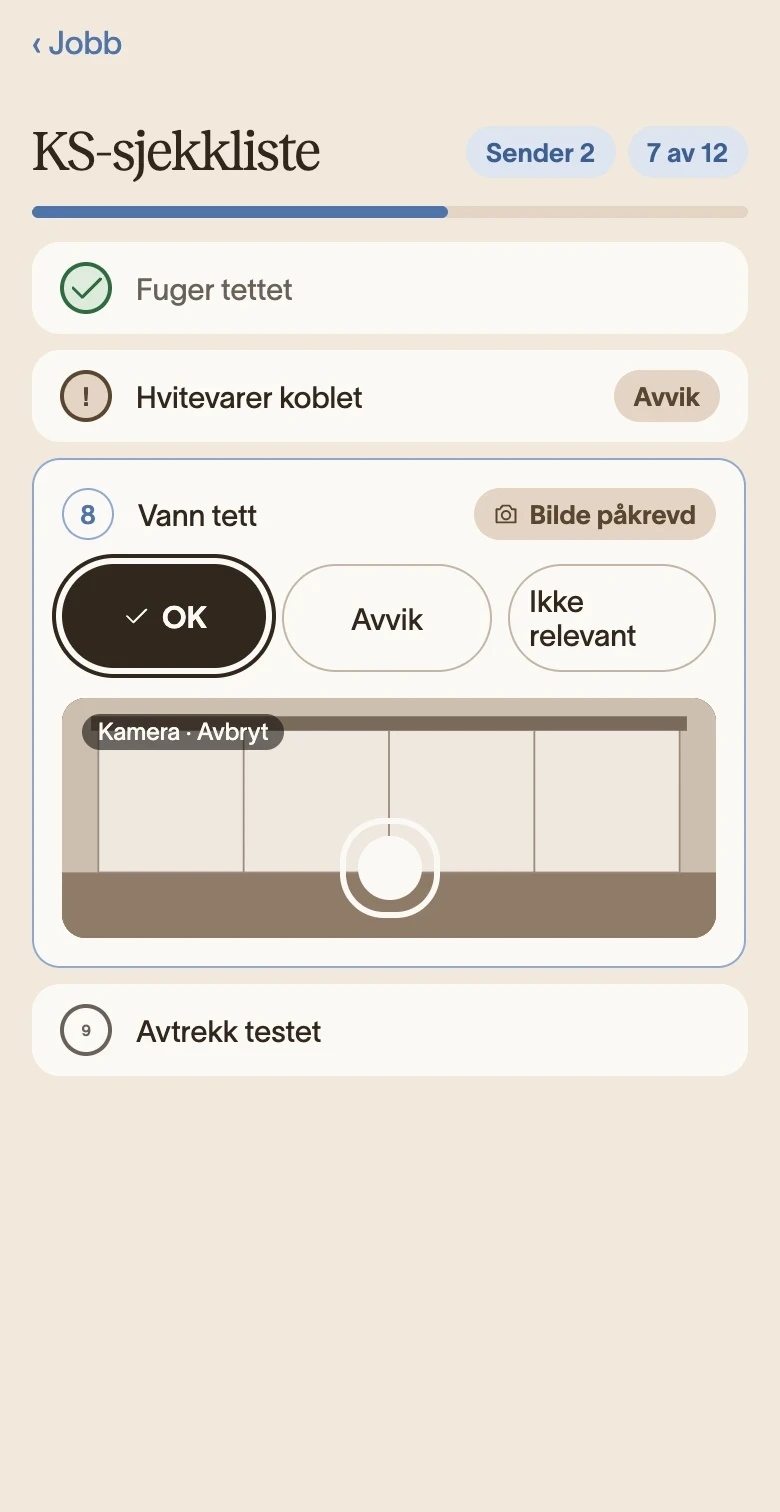
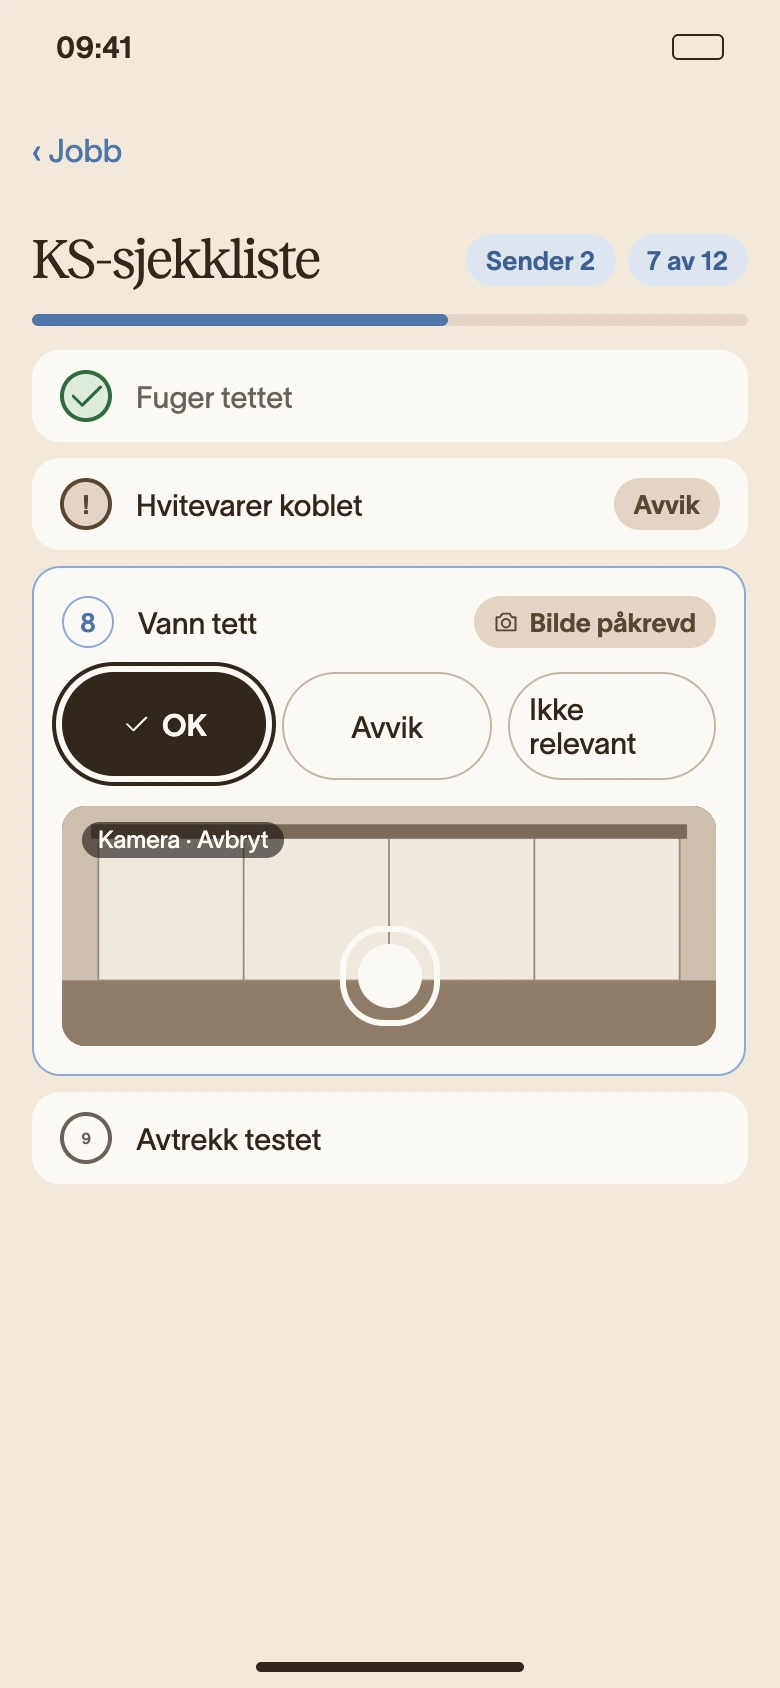
vis: nye skjermbilder fra crm-sju-vis.zip og ute-vis.zip i rommene
CRM (1440 bred, 2×, ny Hengsel-logo, ingen merkenavn): crm-min-dag, crm-bestilling, crm-montasje,
crm-etterkalkyle, crm-salgstavla, crm-saker, crm-resultater og crm-min-dag-800 (Min dag i iPad,
den tegnede kanten på 24 px er beskåret bort). Hengsel Ute: ute-i-dag, ute-jobb-under, ute-laser, ute-ks,
ute-ks-kamera, ute-avvik, ute-punkter, ute-punktkort, ute-ferdig, ute-typeskilt (390 × 844) og
ute-ipad-bildeverktoy (1180 × 820), nå med egen statuslinje og hjemindikator.

Rom: Prøv CRM (PC min-dag → bestilling → tilbud-liste → tilbud-kunde → montasje, iPad min-dag-800,
tilbud og ordre), Firmaleder (PC resultater, salgstavla, montasje, saker, moduler), Ordrens reise
(scene 7 montasje, 8 etterkalkyle, alle på PC), romkortene Prøv CRM og Firmaleder, og «Slik henger det sammen».
Montørappen og Tegningen bruker de nye ute-bildene uten rammens egen statuslinje og hjemindikator
(.tlf.hel gir plass til hele 390 × 844-skjermen). README-kartet oppdatert.

Claude-Session: https://claude.ai/code/session_01XUX8fkzkTEqWReZM1iEFk5

diff --git a/sites/vis/src/side.js b/sites/vis/src/side.js
@@ -10,7 +10,7 @@ var R=[
 // Rom uten CRM_v4-fil bruker bilde av rommet selv (src/img/rom-*.webp, lages av scripts/skjermbilder-vis.mjs).
 var C=[
  {u:'/reise/',b:'/skjermbilder/crm-tilbud-kunde.webp',t:'Ordrens reise',type:'Simulering',p:'Én kjøkkenordre fra tegning i CET til montert kjøkken og faktura, i åtte scener med fem leverandører.',r:['selger','montor','leverandor','sigdal'],go:'Spill av'},
- {u:'/crm/',b:'/skjermbilder/crm-tilbud-liste.webp',t:'Prøv CRM selv',type:'Prøv selv',p:'En dag som selger: Min dag, avvik fra leverandører, tilbud fra CET, ordre og montasjeplan.',r:['selger','sigdal'],go:'Prøv CRM'},
+ {u:'/crm/',b:'/skjermbilder/crm-min-dag.webp',t:'Prøv CRM selv',type:'Prøv selv',p:'En dag som selger: Min dag, avvik fra leverandører, tilbud fra CET, ordre og montasjeplan.',r:['selger','sigdal'],go:'Prøv CRM'},
  {u:'/kunde/',b:'/skjermbilder/portal-tlf-nytt-kjokken.webp',tlf:1,t:'Kundens reise',type:'Simulering',p:'Det kunden opplever i Min side og på SMS, fra tilbud og BankID til FDV og reklamasjon.',r:['selger'],go:'Spill av'},
  {u:'/opplaering/',b:'/img/rom-opplaering.webp',t:'Opplæring for selgere',type:'Opplæring',p:'Ti korte deler fra kunde og tilbud til bestilling, frister og montasje.',r:['selger'],go:'Start'},
  {u:'/montor/',b:'/skjermbilder/ute-i-dag.webp',tlf:1,t:'Montørappen Hengsel',type:'Prøv selv',p:'En monteringsdag: neste jobb, KS, avvik med bilde og ferdigmelding med signatur.',r:['montor','selger'],go:'Prøv appen'},
@@ -22,7 +22,7 @@ var C=[
  {u:'/hvitevarer/',b:'/img/rom-hvitevarer.webp',t:'Hvitevarer via Tradeplace',type:'Prøv selv',p:'Bestill hvitevarer fra flere merker rett fra ordren, med pris og lager live og sjekk mot tegning og montasjeuke.',r:['selger','leverandor'],go:'Prøv bestillingen'},
  {u:'/tegning/',b:'/skjermbilder/ute-laser.webp',tlf:1,t:'Tegningen i Hengsel',type:'Prøv selv',p:'Montøren jobber rett i romtegningen: trykker på et skap, ser mål og varer, og melder ferdig eller avvik.',r:['montor','selger'],go:'Prøv tegningen'},
  {u:'/gevinst/',b:'/img/rom-gevinst.webp',t:'Gevinstkalkulator',type:'Prøv selv',p:'Legg inn butikkens egne tall og se hvor mye tid og penger løsningen sparer i året.',r:['sigdal','selger'],go:'Regn på det'},
- {u:'/firmaleder/',b:'/skjermbilder/crm-leder-oversikt.webp',t:'Firmaleder i Hengsel',type:'Prøv selv',p:'Ny forespørsel med 48 timers svarfrist, aksepter eller avvis, velg montør og se teamets uke.',r:['montor'],go:'Prøv appen'},
+ {u:'/firmaleder/',b:'/skjermbilder/crm-resultater.webp',t:'Firmaleder i Hengsel',type:'Prøv selv',p:'Ny forespørsel med 48 timers svarfrist, aksepter eller avvis, velg montør og se teamets uke.',r:['montor'],go:'Prøv appen'},
  {u:'/leverandor/',b:'/img/rom-leverandor.webp',t:'Leverandørløsningen',type:'Presentasjon',p:'De tolv strømmene, tre nivåer, krav, frister og plan. Med kravene til Sigdal (S-55).',r:['leverandor','sigdal'],go:'Se presentasjonen'},
  {u:'/leder/',b:'/img/rom-leder.webp',t:'Daglig leder',type:'Oversikt',p:'Ordrereserve per uke, tilbud ute, treffprosent, margin og det som står i fare, per butikk og selger.',r:['selger','sigdal'],go:'Åpne oversikten'},
  {u:'/veikart/',b:'/img/rom-veikart.webp',t:'Veikart og status',type:'Oversikt',p:'Hva som er i drift i dag, hva som kommer kvartal for kvartal, og hva vi venter på fra andre.',r:['selger','leverandor','sigdal'],go:'Se veikartet'},

diff --git a/sites/vis/src/crm/index.html b/sites/vis/src/crm/index.html
@@ -49,10 +49,10 @@
     <div class="tabs" id="enhet" role="group" aria-label="Enhet"><button type="button" data-e="pc" class="on" aria-pressed="true">PC</button><button type="button" data-e="ipad" aria-pressed="false">iPad</button><button type="button" data-e="tlf" aria-pressed="false">Telefon</button></div>
   </div>
   <div class="enhet" data-enhet="pc">
-    <div class="pc-ramme" id="pc" data-bilder="crm-tilbud-liste,crm-tilbud-kunde,crm-ordre-kontrollmal,crm-mal-skisser" data-alt="Hengsel CRM på PC"><div class="skjermkant"><div class="skjerm"></div></div><span class="stang" aria-hidden="true"></span><span class="fot" aria-hidden="true"></span></div>
+    <div class="pc-ramme" id="pc" data-bilder="crm-min-dag,crm-bestilling,crm-tilbud-liste,crm-tilbud-kunde,crm-montasje" data-alt="Hengsel CRM på PC"><div class="skjermkant"><div class="skjerm"></div></div><span class="stang" aria-hidden="true"></span><span class="fot" aria-hidden="true"></span></div>
   </div>
   <div class="enhet" data-enhet="ipad" hidden>
-    <div class="ipad-ramme" id="ipad" data-bilder="crm-ipad-tilbud" data-alt="Hengsel CRM på iPad: tilbud"><div class="skjerm"></div></div>
+    <div class="ipad-ramme" id="ipad" data-bilder="crm-min-dag-800,crm-ipad-tilbud,crm-ipad-ordre" data-alt="Hengsel CRM på iPad"><div class="skjerm"></div></div>
   </div>
   <div class="enhet" data-enhet="tlf" hidden>
     <div class="tlf" id="tlf" data-bilder="crm-tlf-ordre" data-alt="Hengsel CRM på telefon: ordre"><div class="skjerm"></div><span class="hjem" aria-hidden="true"></span></div>

diff --git a/sites/vis/src/reise/index.html b/sites/vis/src/reise/index.html
@@ -127,9 +127,7 @@
   <main class="stage" id="stage">
     <section class="card pane" aria-label="Det selgeren ser">
       <div class="pane-h"><h2 class="eyebrow">Selgeren ser</h2><span id="where"></span></div>
-      <div class="enhet" data-enhet="pc"><div class="pc-ramme" id="pc" data-bilder="crm-tilbud-liste,crm-tilbud-kunde,crm-ordre-kontrollmal" data-ingen-nav data-alt="Hengsel CRM på PC"><div class="skjermkant"><div class="skjerm"></div></div><span class="stang" aria-hidden="true"></span><span class="fot" aria-hidden="true"></span></div></div>
-      <div class="enhet" data-enhet="ipad" hidden><div class="ipad-ramme" id="ipad" data-bilder="crm-ipad-ordre" data-alt="Hengsel CRM på iPad: ordre"><div class="skjerm"></div></div></div>
-      <div class="enhet" data-enhet="tlf" hidden><div class="tlf" id="tlf" data-bilder="portal-tlf-levering,portal-tlf-montering" data-ingen-nav data-alt="Min side på mobil"><div class="skjerm"></div><span class="hjem" aria-hidden="true"></span></div></div>
+      <div class="enhet" data-enhet="pc"><div class="pc-ramme" id="pc" data-bilder="crm-tilbud-liste,crm-tilbud-kunde,crm-ordre-kontrollmal,crm-montasje,crm-etterkalkyle" data-ingen-nav data-alt="Hengsel CRM på PC"><div class="skjermkant"><div class="skjerm"></div></div><span class="stang" aria-hidden="true"></span><span class="fot" aria-hidden="true"></span></div></div>
       <div class="order" hidden>
         <div class="order-h"><b id="ohT"></b><small id="ohS"></small></div>
         <div class="rows" id="rows"></div>

diff --git a/sites/vis/src/tegning/index.html b/sites/vis/src/tegning/index.html
@@ -60,10 +60,10 @@
     <div class="scene">
       <div class="tabs" id="enhet" role="group" aria-label="Enhet"><button type="button" data-e="tlf" class="on" aria-pressed="true">Telefon</button><button type="button" data-e="ipad" aria-pressed="false">iPad</button><button type="button" data-e="pc" aria-pressed="false">PC</button></div>
       <div class="enhet" data-enhet="tlf">
-        <div class="tlf" id="tlf" data-bilder="ute-laser" data-sb="09.41" data-alt="Hengsel Ute på telefon: lasermåling i tegningen"><div class="skjerm"></div><span class="hjem" aria-hidden="true"></span></div>
+        <div class="tlf hel" id="tlf" data-bilder="ute-laser" data-alt="Hengsel Ute på telefon: lasermåling i tegningen"><div class="skjerm"></div></div>
       </div>
       <div class="enhet" data-enhet="ipad" hidden>
-        <div class="ipad-ramme" id="ipad" data-bilder="ute-ipad-bildeverktoy" data-sb="09.41 · tor. 8. okt." data-alt="Hengsel Ute på iPad: bildeverktøyet med punkter"><div class="skjerm"></div></div>
+        <div class="ipad-ramme" id="ipad" data-bilder="ute-ipad-bildeverktoy" data-alt="Hengsel Ute på iPad: bildeverktøyet med punkter"><div class="skjerm"></div></div>
       </div>
       <div class="enhet" data-enhet="pc" hidden>
         <div class="pc-ramme" id="pc" data-bilder="crm-mal-skisser" data-alt="Hengsel CRM på PC: mål og skisser"><div class="skjermkant"><div class="skjerm"></div></div><span class="stang" aria-hidden="true"></span><span class="fot" aria-hidden="true"></span></div>

diff --git a/sites/vis/src/reise/side.js b/sites/vis/src/reise/side.js
@@ -3,9 +3,9 @@
   var reduce=window.matchMedia&&window.matchMedia('(prefers-reduced-motion: reduce)').matches;
   var rowsEl=$('rows'),flow=$('flow'),svg=$('lines'),crm=$('crm');
   var cur=1,playing=false,timers=[],anims=[],nodes=[],autoT=null;
-  /* Skjermbilde per scene (CRM_v4): tegning → tilbudslista, tilbud/signering → tilbud og kunde på PC, bestilling/bekreftelse/endring →
-     ordre og kontrollmål på PC, levering og montasje → kundens Min side på telefon, faktura → belastninger på iPad */
-  var V=Skjermbilder.alle(),BILDE=[['pc',0],['pc',1],['pc',1],['pc',2],['pc',2],['pc',2],['tlf',1],['ipad',0]];
+  /* Skjermbilde per scene (CRM_v4, alle på PC): tegning → tilbudslista, tilbud/signering → tilbud og kunde, bestilling/bekreftelse/endring →
+     ordre og kontrollmål, levering og montasje → Mer › Montasje › Kontrollmål, faktura → etterkalkyle for én ordre */
+  var V=Skjermbilder.alle(),BILDE=[['pc',0],['pc',1],['pc',1],['pc',2],['pc',2],['pc',2],['pc',3],['pc',4]];
   function bilde(n){var b=BILDE[n-1];[].forEach.call(document.querySelectorAll('.pane [data-enhet]'),function(w){w.hidden=w.dataset.enhet!==b[0]});V[b[0]].vis(b[1])}
 
   var HEAD_LI={t:'Ordre 10087',s:'Hanne Liksomlien · Lillehammer · montasje uke 46'};

diff --git a/sites/vis/src/firmaleder/index.html b/sites/vis/src/firmaleder/index.html
@@ -55,7 +55,7 @@
     <div class="scene">
       <div class="tabs" id="enhet" role="group" aria-label="Enhet"><button type="button" data-e="pc" class="on" aria-pressed="true">PC</button><button type="button" data-e="ipad" aria-pressed="false">iPad</button><button type="button" data-e="tlf" aria-pressed="false">Telefon</button></div>
       <div class="enhet" data-enhet="pc">
-        <div class="pc-ramme" id="pc" data-bilder="crm-leder-oversikt,crm-leder-start,crm-moduler" data-alt="Firmaleder i Hengsel CRM på PC"><div class="skjermkant"><div class="skjerm"></div></div><span class="stang" aria-hidden="true"></span><span class="fot" aria-hidden="true"></span></div>
+        <div class="pc-ramme" id="pc" data-bilder="crm-resultater,crm-salgstavla,crm-montasje,crm-saker,crm-moduler" data-alt="Hengsel CRM på PC: leder, salg, montasje og belastninger"><div class="skjermkant"><div class="skjerm"></div></div><span class="stang" aria-hidden="true"></span><span class="fot" aria-hidden="true"></span></div>
       </div>
       <div class="enhet" data-enhet="ipad" hidden>
         <div class="ipad-ramme" id="ipad" data-bilder="crm-ipad-min-dag,crm-ipad-montasje" data-alt="Hengsel CRM på iPad: Min dag og Montasje"><div class="skjerm"></div></div>

diff --git a/sites/vis/src/firmaleder/side.js b/sites/vis/src/firmaleder/side.js
@@ -7,8 +7,8 @@ Skjermbilder.guide({guide:$('guide'),reset:$('reset'),velger:velger,forste:'pc',
   start:function(){$('log').innerHTML='';log('Montasjeleder','sendte jobben LI-10087 til Demo Montasje. Svarfrist 48 timer.')},
   steg:{
     se:{enhet:'pc',vis:[V.pc,0]},
-    svar:{enhet:'pc',vis:[V.pc,0],logg:[['Hengsel','Demo Montasje <b>aksepterte</b> jobben LI-10087.'],['CRM','Montasjeplanen viser jobben som akseptert. Montør mangler fortsatt.']]},
-    mont:{enhet:'pc',vis:[V.pc,1],logg:[['Hengsel','Tomas K. er satt på jobben og har fått varsel.'],['CRM','Ordre 10087 er nå <b>Klar for montør</b>. Selgeren ser hvem som kommer.']]},
+    svar:{enhet:'pc',vis:[V.pc,3],logg:[['Hengsel','Demo Montasje <b>aksepterte</b> jobben LI-10087.'],['CRM','Montasjeplanen viser jobben som akseptert. Montør mangler fortsatt.']]},
+    mont:{enhet:'pc',vis:[V.pc,2],logg:[['Hengsel','Tomas K. er satt på jobben og har fått varsel.'],['CRM','Ordre 10087 er nå <b>Klar for montør</b>. Selgeren ser hvem som kommer.']]},
     uke:{enhet:'pc',vis:[V.pc,2]}
   }});
 })();

diff --git a/sites/vis/src/montor/index.html b/sites/vis/src/montor/index.html
@@ -56,7 +56,7 @@
     <div class="scene">
       <div class="tabs" id="enhet" role="group" aria-label="Enhet"><button type="button" data-e="tlf" class="on" aria-pressed="true">Telefon</button><button type="button" data-e="ipad" aria-pressed="false">iPad</button></div>
       <div class="enhet" data-enhet="tlf">
-        <div class="tlf" id="tlf" data-bilder="ute-i-dag,ute-jobb-under,ute-ks,ute-ks-kamera,ute-avvik,ute-punkter,ute-punktkort,ute-ferdig,ute-typeskilt" data-sb="07.42" data-alt="Hengsel Ute på telefon"><div class="skjerm"></div><span class="hjem" aria-hidden="true"></span></div>
+        <div class="tlf hel" id="tlf" data-bilder="ute-i-dag,ute-jobb-under,ute-ks,ute-ks-kamera,ute-avvik,ute-punkter,ute-punktkort,ute-ferdig,ute-typeskilt" data-alt="Hengsel Ute på telefon"><div class="skjerm"></div></div>
       </div>
       <div class="enhet" data-enhet="ipad" hidden>
         <div class="ipad-ramme" id="ipad" data-bilder="ute-ipad-i-dag,ute-ipad-ks,ute-ipad-staaende" data-alt="Hengsel Ute på iPad"><div class="skjerm"></div></div>

diff --git a/sites/vis/src/index.html b/sites/vis/src/index.html
@@ -141,7 +141,7 @@ footer .inner{padding-block:24px;display:flex;flex-direction:column;gap:20px}
       <h2 id="sammen">Slik henger det sammen</h2>
       <div class="tre">
         <div class="card flate">
-          <div class="bilde"><img src="/skjermbilder/crm-tilbud-liste.webp" alt="Hengsel CRM: tilbudslista" width="1600" height="1000" loading="lazy"></div>
+          <div class="bilde"><img src="/skjermbilder/crm-min-dag.webp" alt="Hengsel CRM: Min dag" width="1600" height="1000" loading="lazy"></div>
           <div class="t"><span class="eyebrow">Kontoret</span><span class="ktittel">Hengsel CRM</span><p>Min dag, salgstavle, kundekort, tilbud, bestilling, ordre, montasje, saker og resultater. På PC, iPad og telefon.</p></div>
         </div>
         <div class="card flate">

diff --git a/sites/vis/src/assets/enhet.css b/sites/vis/src/assets/enhet.css
@@ -71,3 +71,7 @@
 }
 /* Telefonbilder med egen statuslinje (kundeportalen, CRM på telefon) fyller hele skjermen; hjemindikatoren ligger oppå */
 .tlf[data-bilder]:not([data-sb])>.skjerm{padding-bottom:0}
+/* Hel skjerm: bildet (390 × 844) har egen statuslinje og hjemindikator, så rammen gir plass til hele skjermen og tegner ingen hjemindikator */
+.tlf.hel{aspect-ratio:414/868}
+.tlf.hel>.skjerm>img.sk{flex:none;height:100%}
+@media (max-width:640px){.tlf.hel{aspect-ratio:auto}.tlf.hel>.skjerm>img.sk{height:auto}}

diff --git a/sites/vis/src/crm/side.js b/sites/vis/src/crm/side.js
@@ -4,7 +4,7 @@ var V=Skjermbilder.alle(),velger=Skjermbilder.velger(document.getElementById('en
 Skjermbilder.guide({guide:document.getElementById('guide'),velger:velger,forste:'pc',steg:{
   avvik:{enhet:'pc',vis:[V.pc,0]},
   faktura:{enhet:'pc',vis:[V.pc,1]},
-  cet:{enhet:'pc',vis:[V.pc,2]},
-  plan:{enhet:'pc',vis:[V.pc,3]}
+  cet:{enhet:'pc',vis:[V.pc,3]},
+  plan:{enhet:'pc',vis:[V.pc,4]}
 }});
 })();

diff --git a/sites/vis/README.md b/sites/vis/README.md
@@ -4,20 +4,20 @@
 
 Alle skjermbilder av løsningen på vis.hengsel.no kommer fra **designfilene i CRM_v4** (`docs/design/**/*.dc.html` på demo), aldri fra kjørende demo eller tegnet UI i rammene. Visningsrommet viser hvordan løsningen blir, ikke hvordan den er nå. Filene er webp i 2× oppløsning uten enhetsramme (bare skjerminnholdet) og ligger i `sites/vis/src/skjermbilder/` (vis har ingen `public/`; `bygg.mjs` kopierer `src/` til `dist/`). `assets/bilder.js` legger dem i rammene fra `assets/enhet.css`: Studio Display (1180 × 740, høyere bilder kan rulles i skjermen), iPad liggende 1180 × 820 (stående 820 × 1180 snus automatisk), iPhone 390 × 844, alle med `object-fit: cover; object-position: top`. Aldri PC-bildet i iPad- eller telefonrammen. Rom med flere enheter har velgeren PC · iPad · Telefon; «Prøv dette»-stegene viser skjermen for steget og skriver loggen «Samtidig i Hengsel». Tekster, steg og logg er som før.
 
-### Bilde-til-rom-kart (endelig, PR 10.10)
+### Bilde-til-rom-kart (endelig, siste pakker 10.10: crm-sju-vis.zip og ute-vis.zip)
 
 | Rom | Studio Display | iPad | iPhone |
 |---|---|---|---|
-| Prøv CRM | `crm-tilbud-liste` → `crm-tilbud-kunde` → `crm-ordre-kontrollmal` → `crm-mal-skisser` (steg 1–4) | `crm-ipad-tilbud` | `crm-tlf-ordre` |
-| Firmaleder | `crm-leder-oversikt` → `crm-leder-start` → `crm-moduler` (steg 1–2 / 3 / 4) | `crm-ipad-min-dag`, `crm-ipad-montasje` | `crm-tlf-min-dag`, `crm-tlf-kundekort` |
-| Montørappen (Hengsel Ute) | – | `ute-ipad-i-dag`, `ute-ipad-ks`, `ute-ipad-staaende` | `ute-i-dag` → `ute-jobb-under` → `ute-ks` → `ute-ks-kamera` → `ute-avvik` → `ute-punkter` → `ute-punktkort` → `ute-ferdig` → `ute-typeskilt` (steg: 2, 3, 5, 8); statuslinje fra rammen |
-| Tegningen | `crm-mal-skisser` (steg 4) | `ute-ipad-bildeverktoy` (steg 3; statuslinje fra rammen) | `ute-laser` (steg 1, 2, 5) |
+| Prøv CRM | `crm-min-dag` → `crm-bestilling` → `crm-tilbud-liste` → `crm-tilbud-kunde` → `crm-montasje` (steg 1 / 2 / 3 / 4 = bilde 1 / 2 / 4 / 5) | `crm-min-dag-800` → `crm-ipad-tilbud` → `crm-ipad-ordre` | `crm-tlf-ordre` |
+| Firmaleder | `crm-resultater` → `crm-salgstavla` → `crm-montasje` → `crm-saker` → `crm-moduler` (steg 1 = bilde 1, 2 = 4, 3 og 4 = 3) | `crm-ipad-min-dag`, `crm-ipad-montasje` | `crm-tlf-min-dag`, `crm-tlf-kundekort` |
+| Montørappen (Hengsel Ute) | – | `ute-ipad-i-dag`, `ute-ipad-ks`, `ute-ipad-staaende` | `ute-i-dag` → `ute-jobb-under` → `ute-ks` → `ute-ks-kamera` → `ute-avvik` → `ute-punkter` → `ute-punktkort` → `ute-ferdig` → `ute-typeskilt` (steg: 2, 3, 5, 8) |
+| Tegningen | `crm-mal-skisser` (steg 4) | `ute-ipad-bildeverktoy` (steg 3) | `ute-laser` (steg 1, 2, 5) |
 | Kundens Min side | PC-bryter: `portal-mitt-kjokken` → `portal-oppgraderinger` → `portal-status` → `portal-nytt-kjokken` | – | Mobil-bryter: `portal-tlf-nytt-kjokken` → `portal-tlf-levering` → `portal-tlf-montering` → `portal-tlf-mine-kjop`; steg n viser bilde n i begge |
 | Kundens reise | – | – | steg 1–2 `portal-tlf-nytt-kjokken`, 3–5 `portal-tlf-levering`, 6 `portal-tlf-montering`, 7–8 `portal-tlf-mine-kjop`; varselet glir inn oppå |
-| Ordrens reise («Selgeren ser») | scene 1 `crm-tilbud-liste`, 2–3 `crm-tilbud-kunde`, 4–6 `crm-ordre-kontrollmal` | scene 8 `crm-ipad-ordre` (ordre på iPad) | scene 7 `portal-tlf-montering` |
-| Romkort på forsiden | første bilde i rommets liste, 16:10 øverst til venstre; telefonbilder (Kundens reise, Montørappen, Tegningen) 58 % brede, toppjustert | | |
+| Ordrens reise («Selgeren ser», alle på PC) | scene 1 `crm-tilbud-liste`, 2–3 `crm-tilbud-kunde`, 4–6 `crm-ordre-kontrollmal`, 7 `crm-montasje`, 8 `crm-etterkalkyle` | – | – |
+| Romkort på forsiden | første bilde i rommets liste, 16:10 øverst til venstre: Prøv CRM `crm-min-dag`, Firmaleder `crm-resultater`, Ordrens reise `crm-tilbud-liste`; telefonbilder (Kundens reise, Montørappen, Tegningen) 58 % brede, toppjustert | | |
 
-- `ute-*`-bildene (iPhone 780 × 1512 og `ute-ipad-bildeverktoy`) er de samme filene som hengsel.no bruker (`sites/hengsel/public/img`, fra fil 56), uten statuslinje; rammen legger på «07.42»/«09.41». De andre bildene har egen statuslinje.
+- `ute-*`-bildene kommer fra `ute-vis.zip` (10.10, fra designfilene, uten merkenavn): iPhone 780 × 1688 (390 × 844 i 2×) og `ute-ipad-bildeverktoy` 2360 × 1640 (1180 × 820). De har egen statuslinje (09.41), dynamic island og hjemindikator, så rammene (`.tlf.hel`, iPad) legger ikke på noen: telefonrammen gir plass til hele 390 × 844-skjermen. CRM-bildene fra `crm-sju-vis.zip` (1440 bred, 2×): `crm-min-dag`, `crm-bestilling`, `crm-montasje`, `crm-etterkalkyle`, `crm-salgstavla`, `crm-saker`, `crm-resultater` (2880 × 1800) og `crm-min-dag-800` (Min dag i iPad-ramme; den tegnede kanten på 24 px er beskåret bort, 2360 × 1640, brukt som første iPad-bilde i Prøv CRM). `crm-leder-oversikt` og `crm-leder-start` er ikke i bruk lenger (erstattet av `crm-resultater` og `crm-salgstavla`).
 - Rom uten CRM_v4-skjermbilde (Systemkartet, Veikart, Gevinstkalkulator, Leverandørløsningen, Opplæring, /sv/, og foreløpig Prøv som leverandør, Ordre- og fakturakontroll, Montasjeplan, Prosjektsalg, Hvitevarer og Daglig leder) bruker bilde av rommet selv på romkortet (`src/img/rom-*.webp`, lages av `npm run skjermbilder:vis`). De seks siste får CRM_v4-bilder når skjermene er eksportert.
 - Logoen på siden er `hengsel-crm-logo-lys/-mork.svg` (PR 10.10). Alle CRM-bildene har Hengsel-logoen i sidemenyen. Navnene sier hva bildet viser. Den siste bildepakken 10.10 (Hengsel.no.zip, `img/vis`) er lagt inn slik: `crm-mal-skisser` ← `mal-skisser`, `crm-tilbud-liste` ← `tilbud-liste` (tilbudslista), `crm-ipad-min-dag` ← `ipad-min-dag`, `crm-ipad-montasje` ← `ipad-montasje`, `crm-ipad-tilbud` ← `ipad-tilbud`, `crm-ipad-ordre` ← `ipad-ordre`, `crm-tlf-min-dag` ← `tlf-min-dag`, `crm-tlf-kundekort` ← `tlf-kundekort`, `crm-tlf-ordre` ← `tlf-ordre`. Mål: PC 2876 × 1796 (2×), iPad 1180 × 820 (1×), telefon 780 × 1600 (2×).
 
